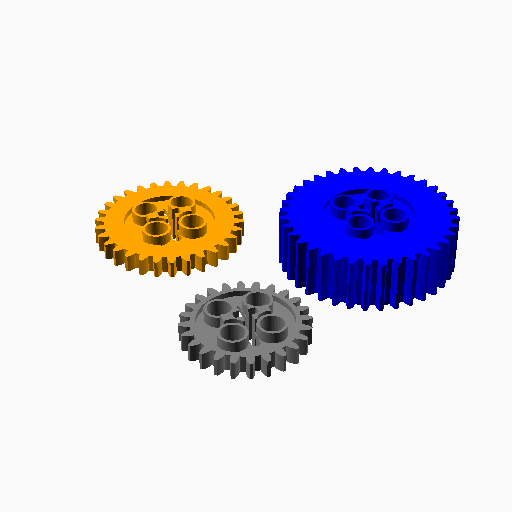
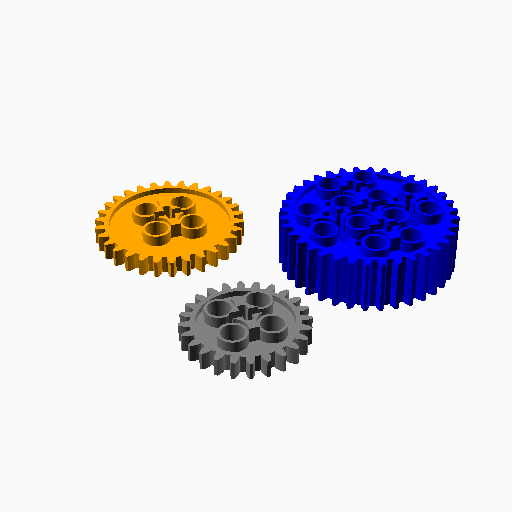
Improve support for spur gears with variable numbers of teeth.

Changed region(s): [[0.5625, 0.3125, 0.875, 0.5], [0.2188, 0.3438, 0.4375, 0.4688], [0.4375, 0.5938, 0.5312, 0.6875]]

diff --git a/README.md b/README.md
@@ -81,11 +81,12 @@ Generate a Technic-compatible 90º elbow.
 --------------------------
 ![A 24-tooth gear compatible with LEGO part #3648.](images/Technic%20Gear%20%28Double-Sided%29.png)
 
-Generate a Technic-compatible 24-tooth gear.
+Generate a Technic-compatible double-sided spur gear.
 
 | Parameter | Type | Description |
 |---|---|---|
 | `width` | int | In multiples of the original gear width, how wide should it be? e.g., a width of 3 would generate a single gear with the same total width as three gears set side-by-side. |
+| `teeth` | int | How many teeth should the gear have? The minimum reasonable value is probably 14. |
 
 `technic_gear_single_sided();`
 --------------------------
